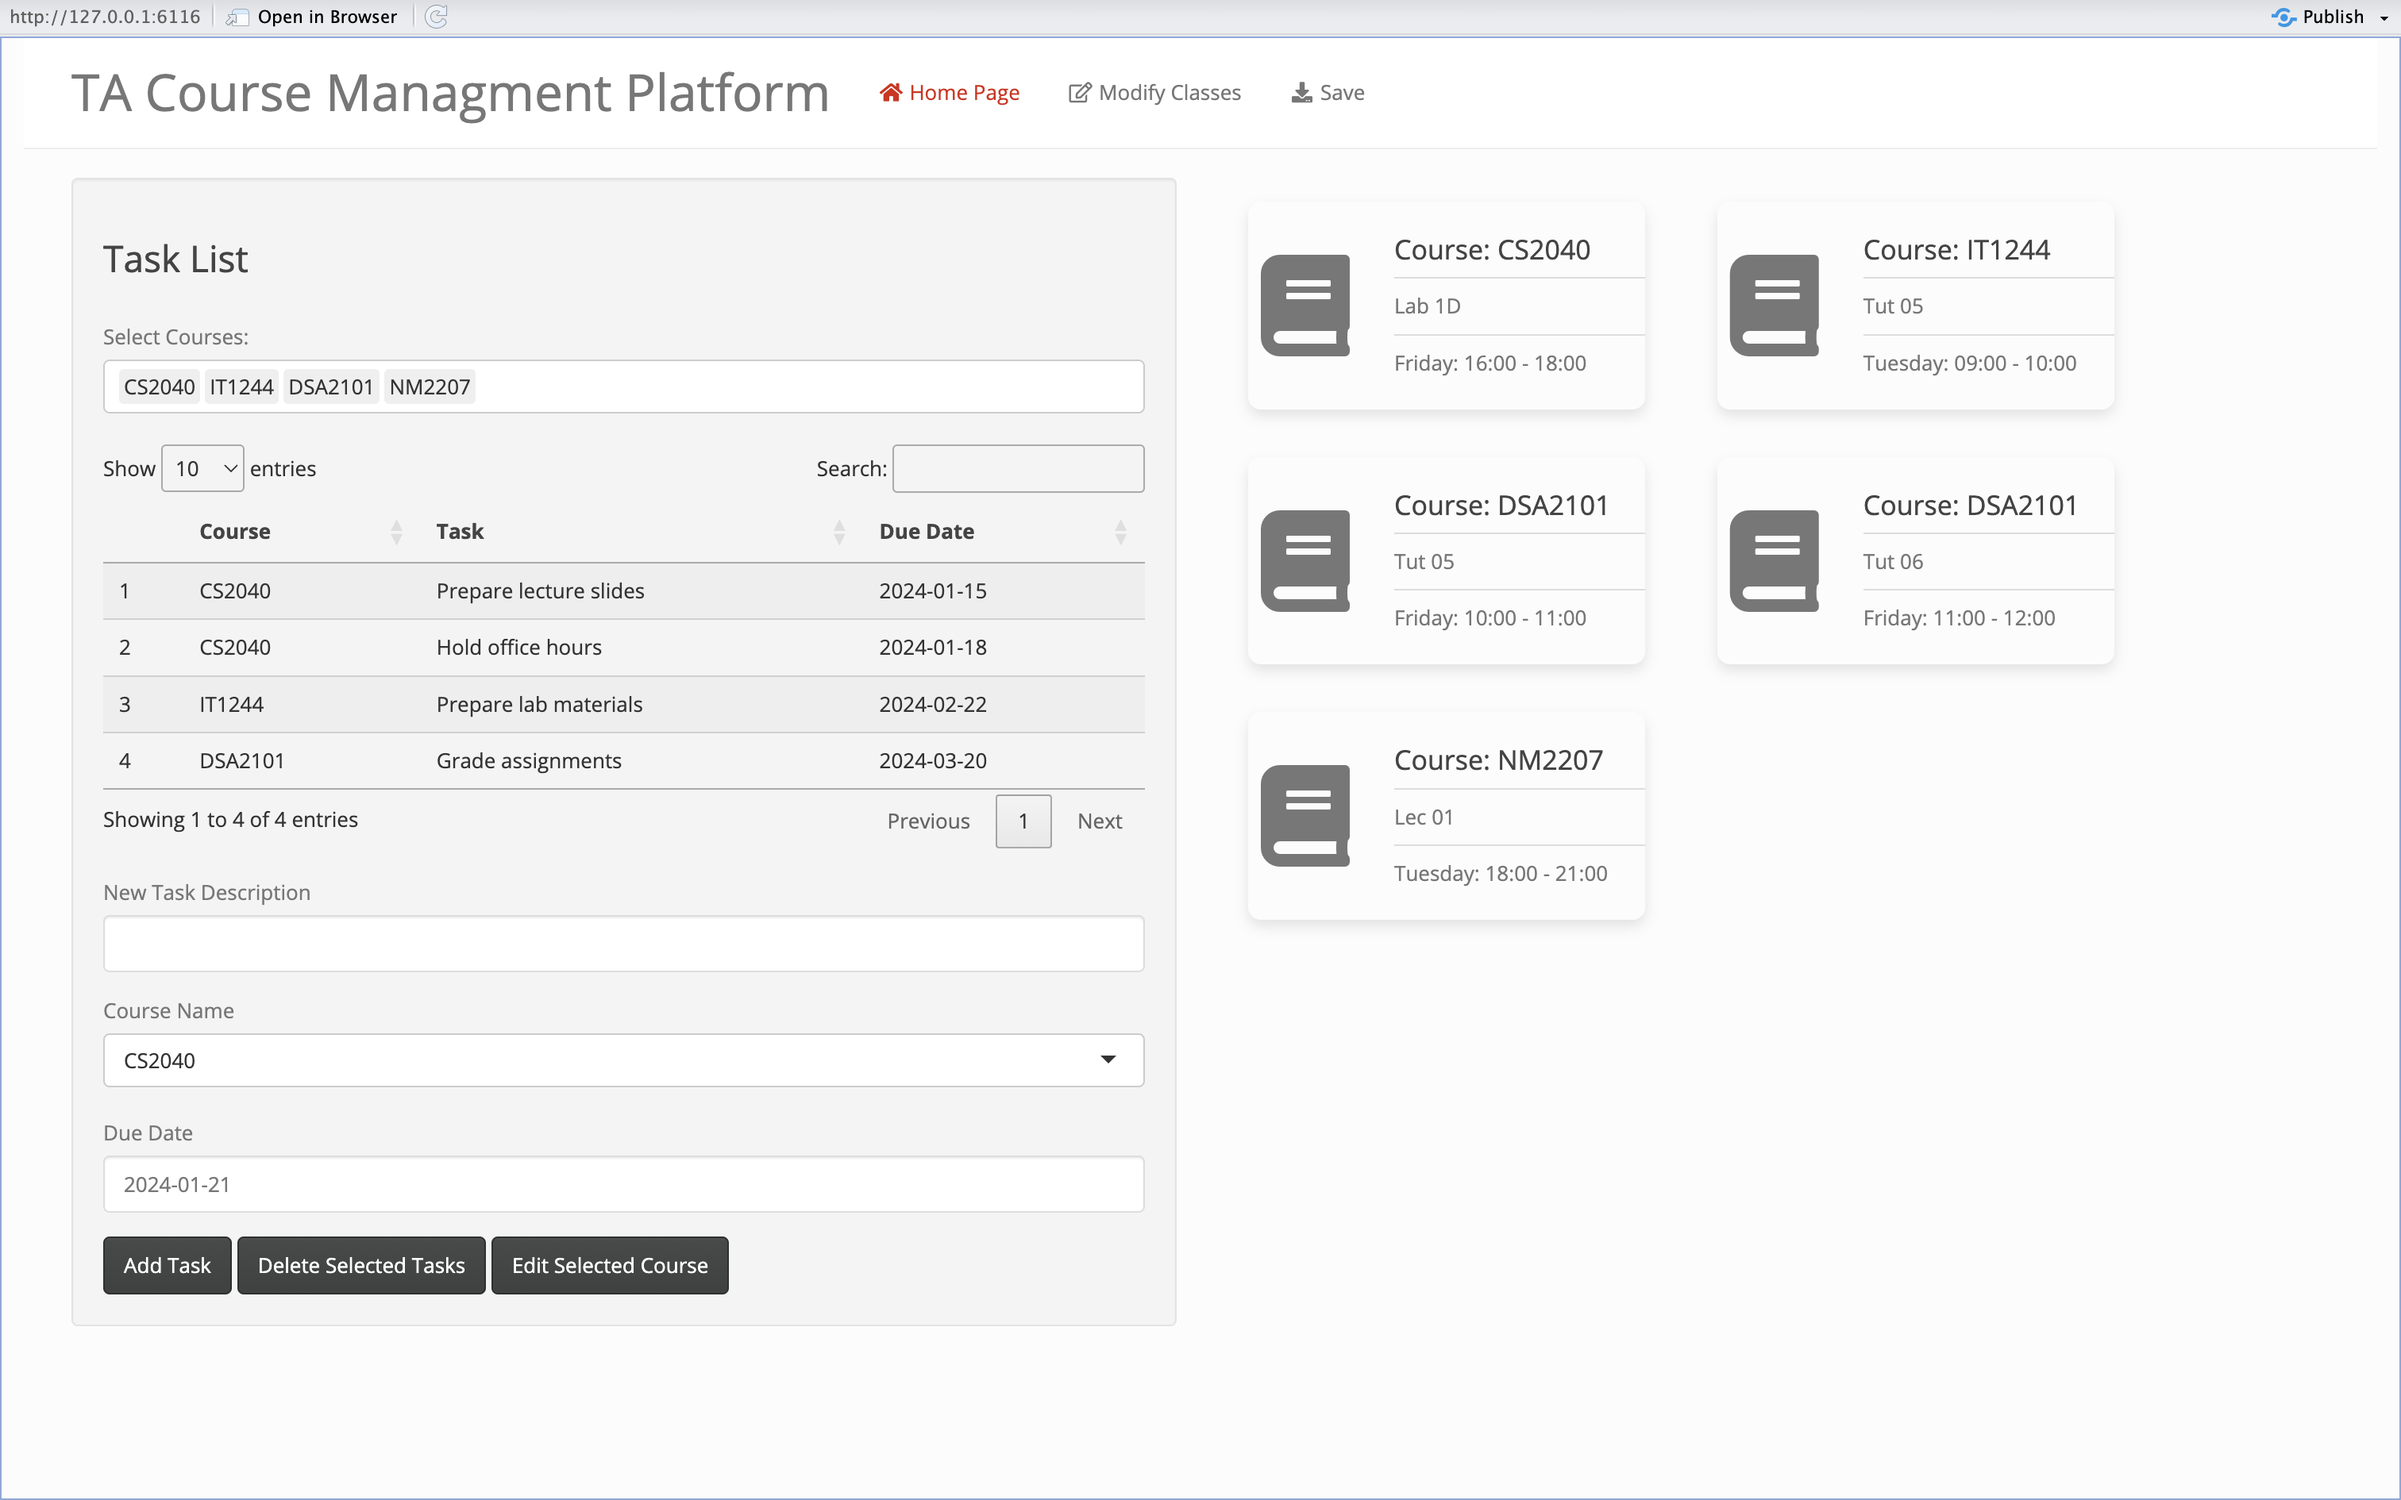
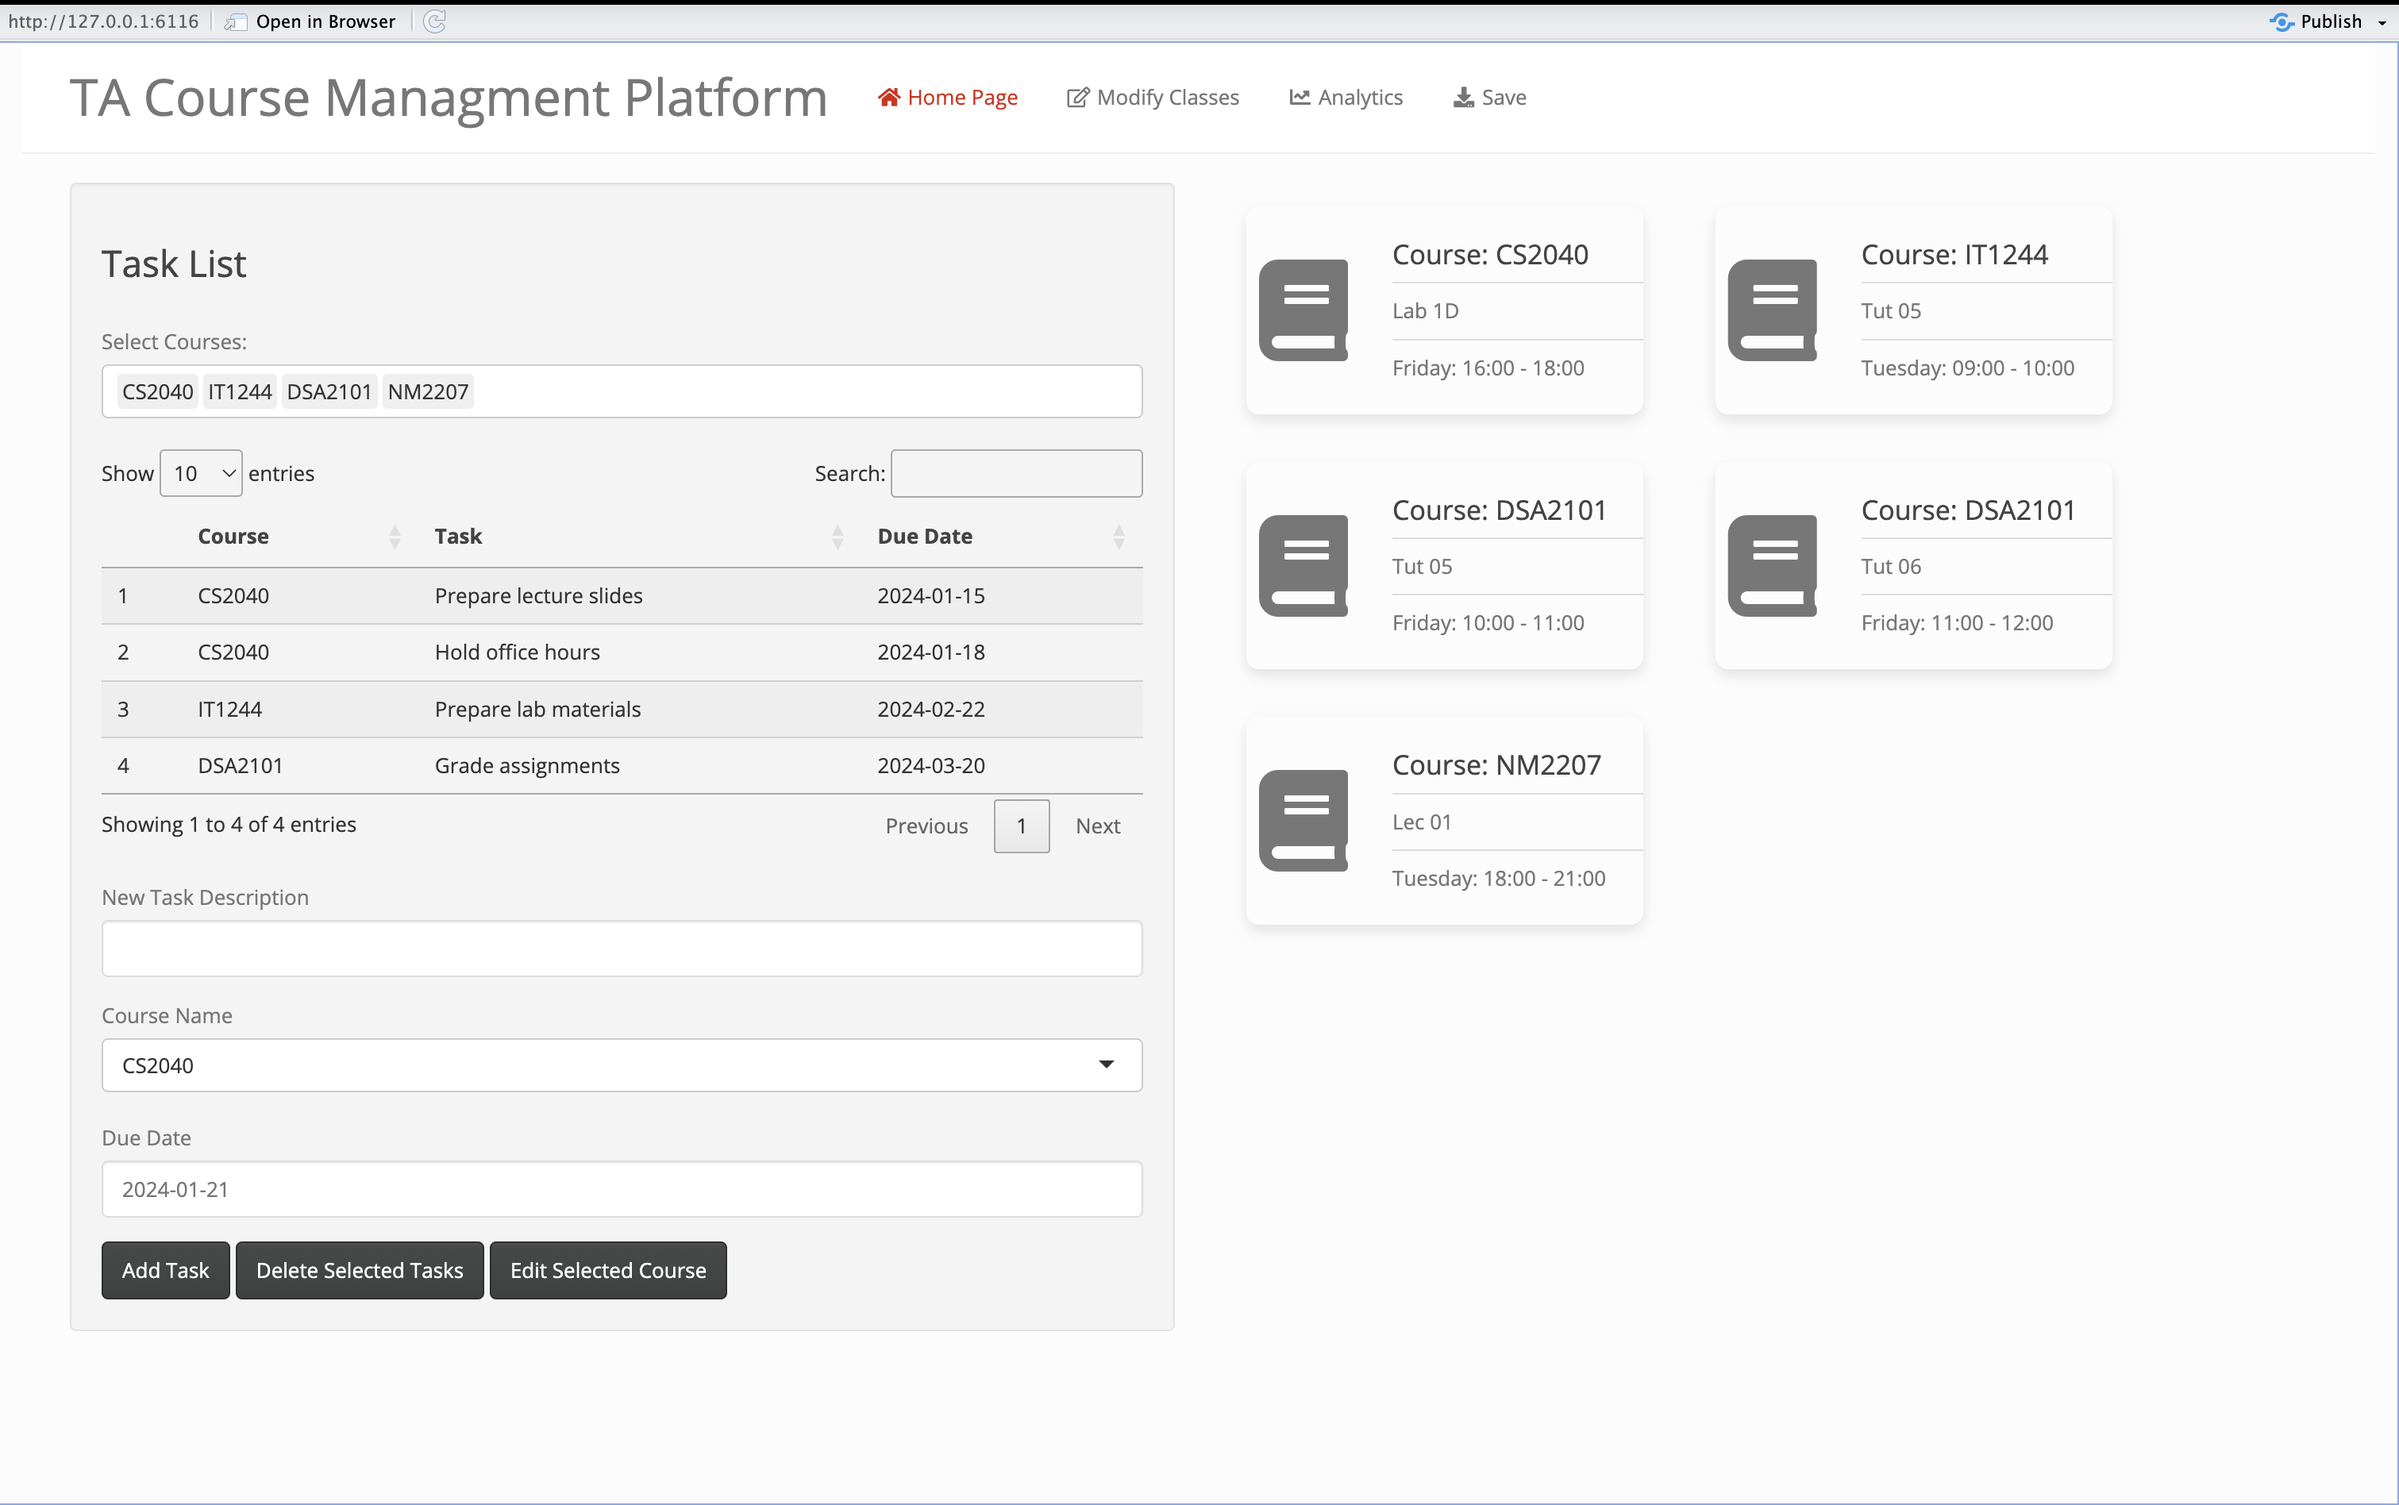
Add analytics Page

diff --git a/README.md b/README.md
@@ -52,8 +52,9 @@ Harness the potential of a structured workflow by managing claims for various ta
 ![Claims Management](images/claims.png)
 
 ### 6. Analytics
-Elevate your insights game with analytics that not only unravel attendance patterns and claims but also present them in captivating visualizations powered by ggplot.
-![Analytics](images/analytics.png)
+Elevate your insights game with analytics that not only unravel attendance patterns and claims but also present them in captivating visualizations powered by ggplot for specfic courses as well as across all courses.
+![Analytics (Course)](images/analytics.png)
+![Analytics (Overall)](images/analytics_page.png)
 
 
 ## Required Packages
